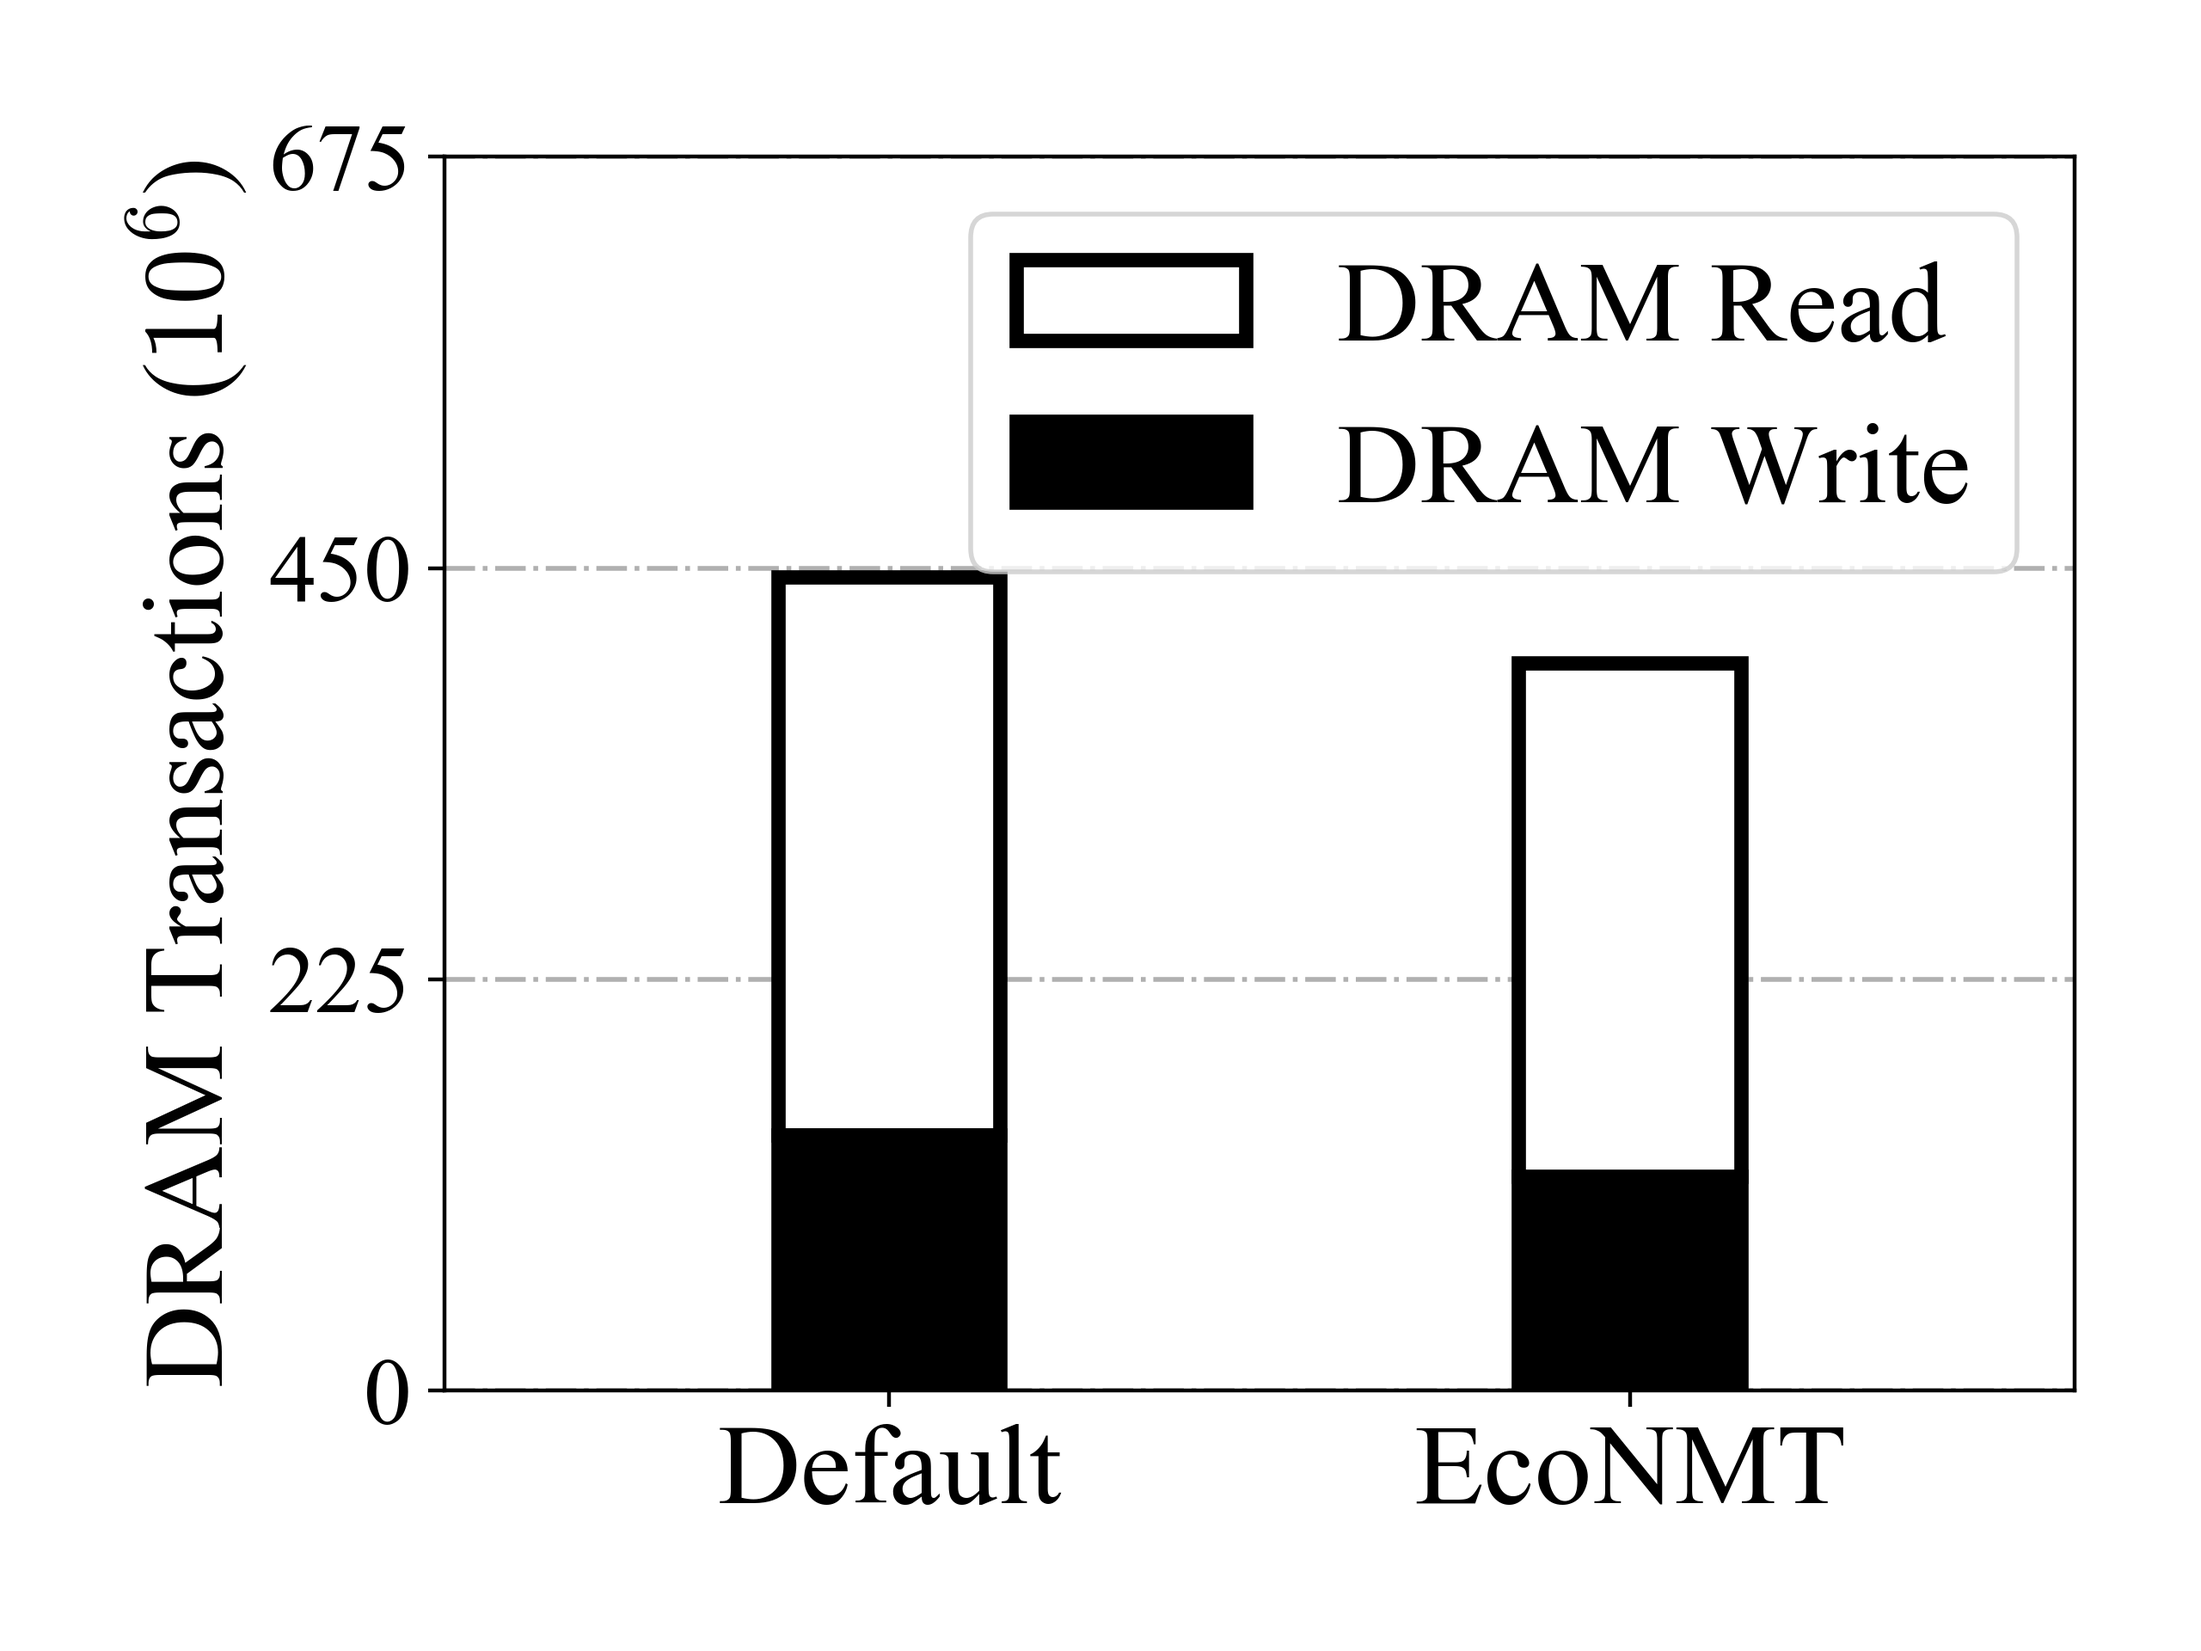
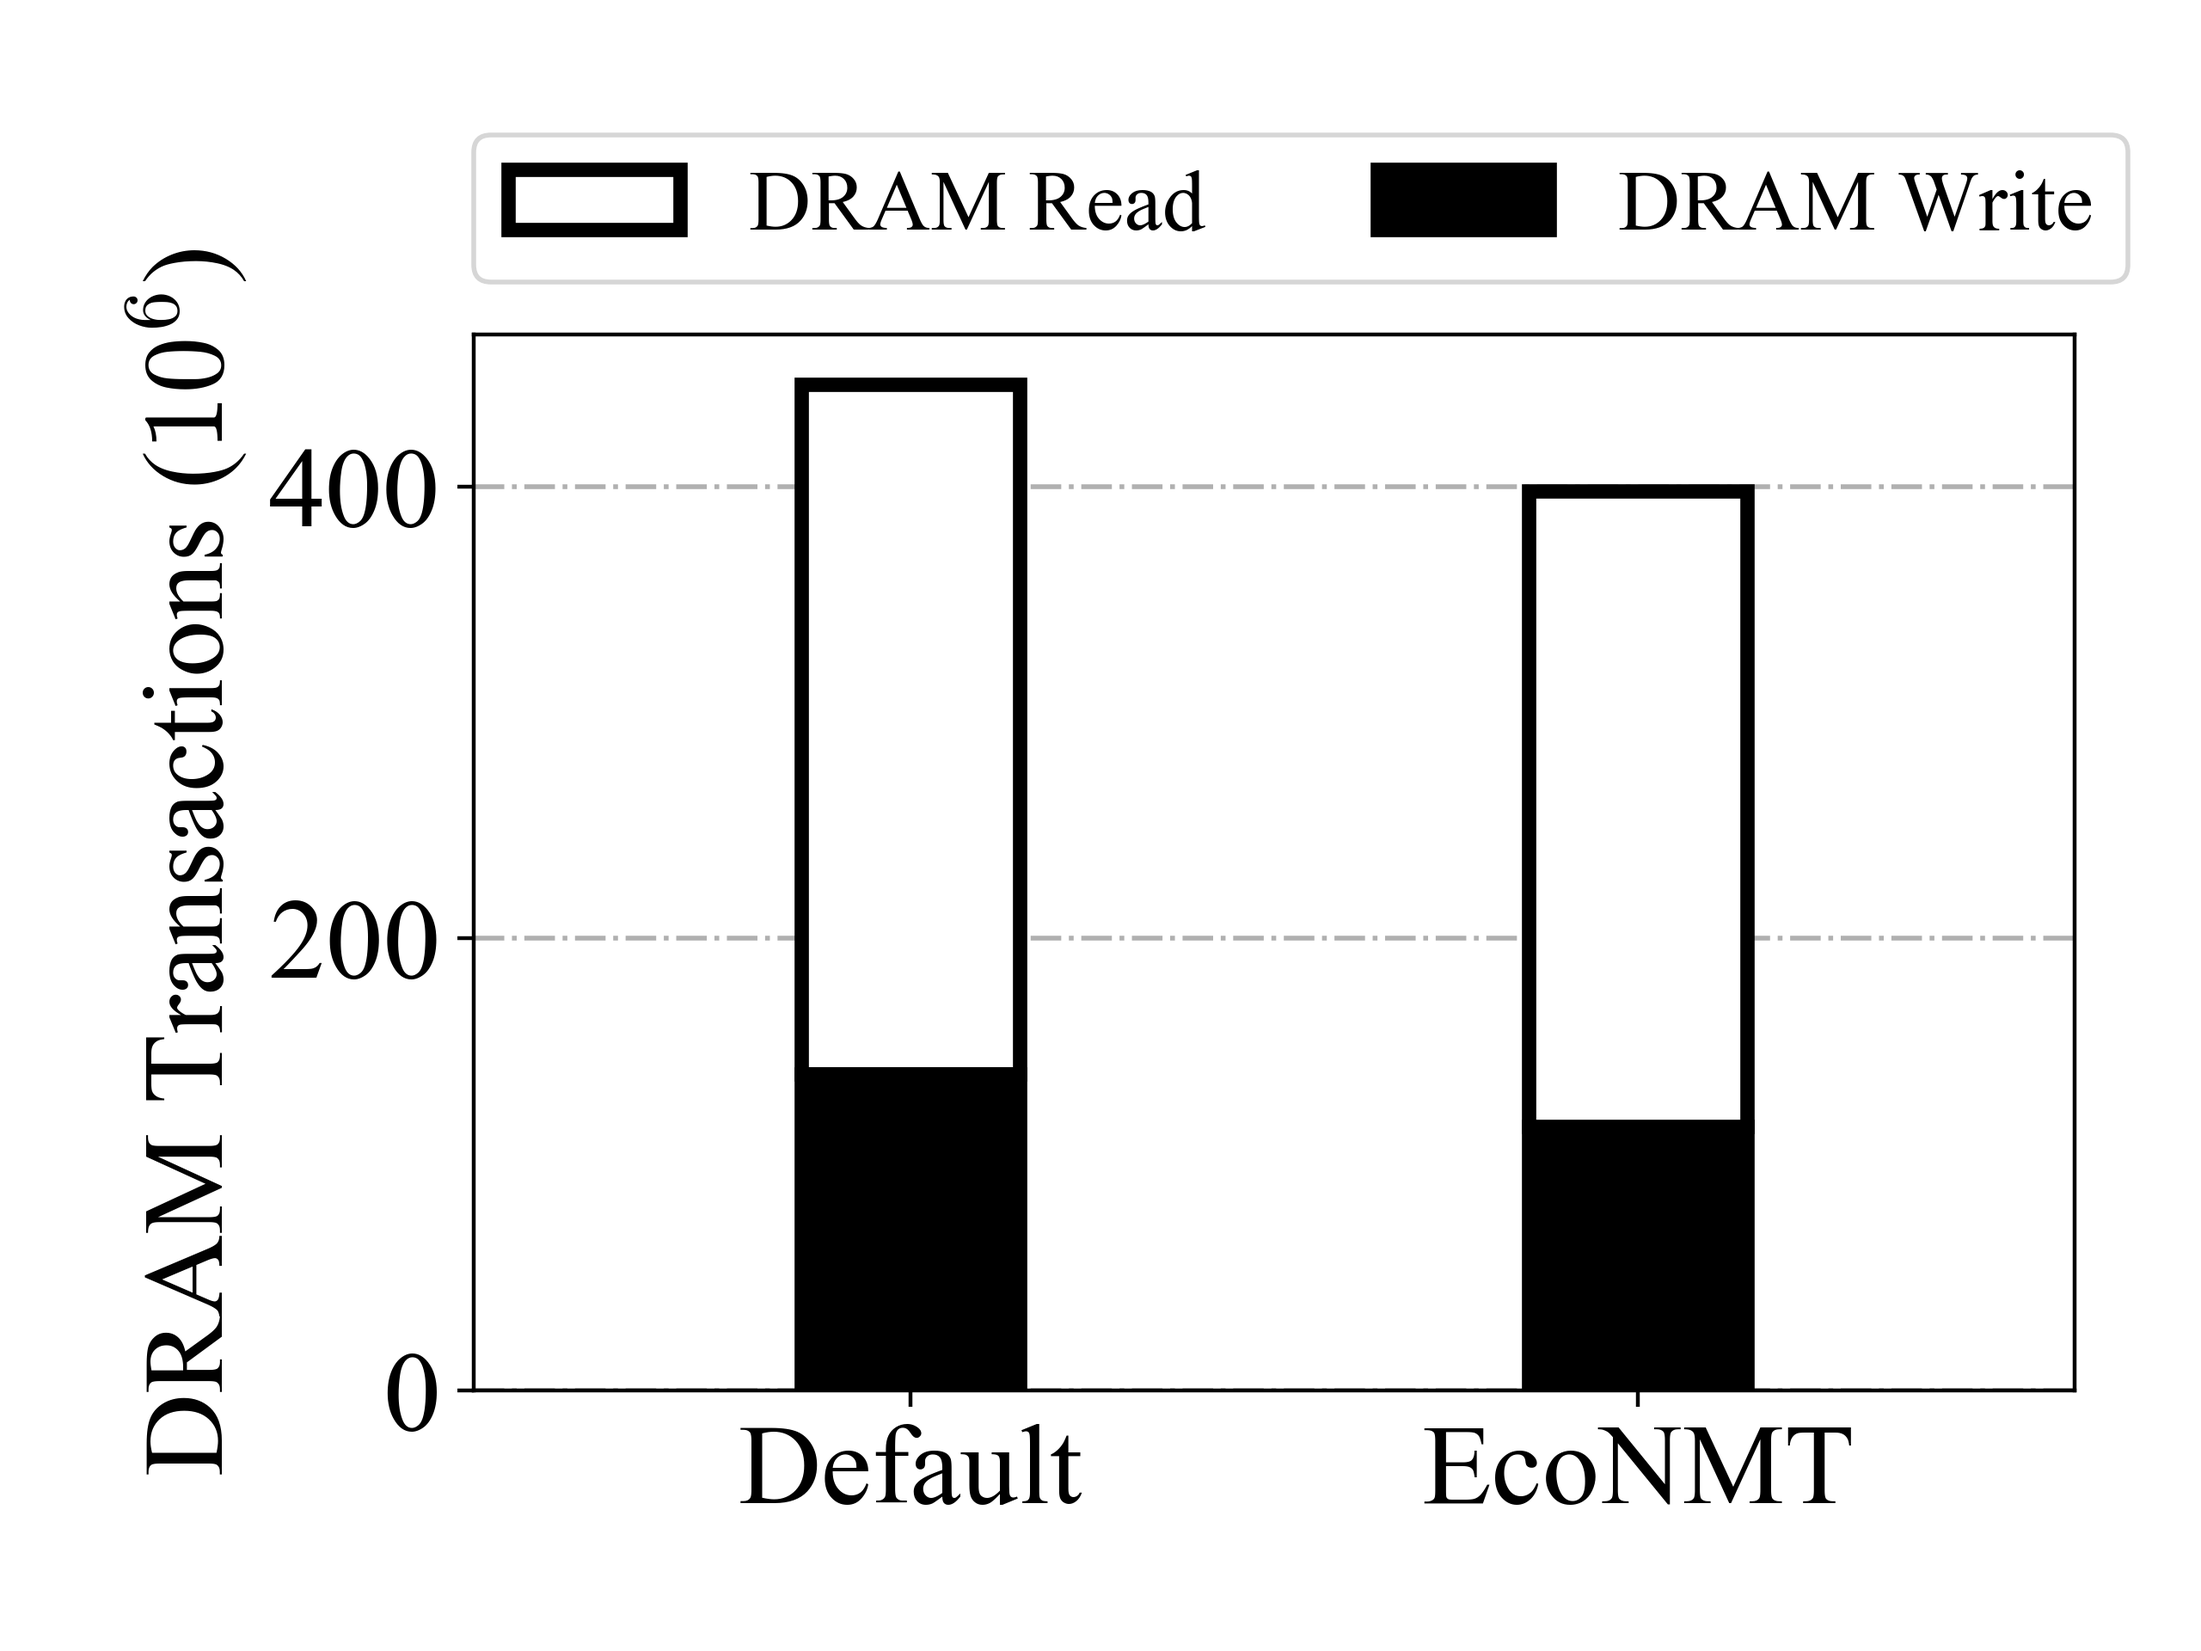
Renamed legacy to default, partial_fw_prop to econmt.

Changed region(s): [[0.0625, 0.0625, 0.9688, 0.9375], [0.625, 0.8438, 0.8438, 0.9062]]

diff --git a/workspace/results/tensorboard/visualizer.py b/workspace/results/tensorboard/visualizer.py
@@ -28,28 +28,28 @@ def gen_from_txt(fname):
     return data
 
 
-def plt_legacy_vs_partial_fw_prop(csv_prefix, metric, metric_unit=None, ymin=None, ymax=None,
+def plt_default_vs_econmt(csv_prefix, metric, metric_unit=None, ymin=None, ymax=None,
                                   xlabel='Global Step', 
                                   xlabel_unit='Number of Training Batches', title=None):
     """
     Plot the comparison between legacy backpropagation and partial forward propagation.
     """
     ylabel = metric.title().replace('_', ' ')
-    title ='%s-legacy_vs_partial_fw_prop-%s' % (csv_prefix, metric)
+    title ='%s-default_vs_econmt-%s' % (csv_prefix, metric)
 
-    legacy  = gen_from_txt(fname='%s-legacy/csv/%s.csv' % (csv_prefix, metric))
-    partial = gen_from_txt(fname='%s-partial_fw_prop/csv/%s.csv' % (csv_prefix, metric))
+    default = gen_from_txt(fname='%s-default/csv/%s.csv' % (csv_prefix, metric))
+    econmt  = gen_from_txt(fname= '%s-econmt/csv/%s.csv' % (csv_prefix, metric))
 
     if metric == 'memory_usage' and metric_unit == 'GB':
-        legacy [:,2] = legacy [:,2] / 1000
-        partial[:,2] = partial[:,2] / 1000
+        default[:,2] = default[:,2] / 1000
+        econmt [:,2] = econmt [:,2] / 1000
     
     plt.figure()
 
-    plt.plot(legacy [:,1], legacy [:,2], linewidth=2, linestyle='--', 
-             color='black', label='Legacy')
-    plt.plot(partial[:,1], partial[:,2], linewidth=2, linestyle='-',
-             color='black', label='Partial FW Prop')
+    plt.plot(default[:,1], default[:,2], linewidth=2, linestyle='--', 
+             color='black', label='Default')
+    plt.plot(econmt [:,1], econmt [:,2], linewidth=2, linestyle='-',
+             color='black', label='EcoNMT')
 
     plt.xlabel("%s (%s)" % (xlabel, xlabel_unit))
     plt.ylabel("%s (%s)" % (ylabel, metric_unit) if metric_unit is not None else ylabel)
@@ -72,9 +72,9 @@ if __name__ == "__main__":
     # setup the RC parameters
     plt_rc_setup()
 
-    plt_legacy_vs_partial_fw_prop(csv_prefix='iwslt15-vi_en-groundhog-500', metric='speed', metric_unit='Samples/s')
-    plt_legacy_vs_partial_fw_prop(csv_prefix='iwslt15-vi_en-tbd-500'      , metric='speed', metric_unit='Samples/s')
-    plt_legacy_vs_partial_fw_prop(csv_prefix='iwslt15-vi_en-groundhog-500', metric='perplexity')
-    plt_legacy_vs_partial_fw_prop(csv_prefix='iwslt15-vi_en-tbd-500'      , metric='perplexity')
-    plt_legacy_vs_partial_fw_prop(csv_prefix='iwslt15-vi_en-groundhog-500', metric='memory_usage', metric_unit='GB')
-    plt_legacy_vs_partial_fw_prop(csv_prefix='iwslt15-vi_en-tbd-500'      , metric='memory_usage', metric_unit='GB')
+    plt_default_vs_econmt(csv_prefix='iwslt15-vi_en-groundhog-500', metric='speed', metric_unit='Samples/s')
+    plt_default_vs_econmt(csv_prefix='iwslt15-vi_en-tbd-500'      , metric='speed', metric_unit='Samples/s')
+    plt_default_vs_econmt(csv_prefix='iwslt15-vi_en-groundhog-500', metric='perplexity')
+    plt_default_vs_econmt(csv_prefix='iwslt15-vi_en-tbd-500'      , metric='perplexity')
+    plt_default_vs_econmt(csv_prefix='iwslt15-vi_en-groundhog-500', metric='memory_usage', metric_unit='GB')
+    plt_default_vs_econmt(csv_prefix='iwslt15-vi_en-tbd-500'      , metric='memory_usage', metric_unit='GB')

diff --git a/workspace/results/profile/dram_traffic/visualizer.py b/workspace/results/profile/dram_traffic/visualizer.py
@@ -42,8 +42,8 @@ def parse_dram_traffic_profile(fname):
         
 
 if __name__ == "__main__":
-    dram_read_legacy , dram_write_legacy  = parse_dram_traffic_profile("iwslt15-vi_en-groundhog-legacy.csv")
-    dram_read_partial, dram_write_partial = parse_dram_traffic_profile("iwslt15-vi_en-groundhog-partial_fw_prop.csv")
+    dram_read_default, dram_write_default = parse_dram_traffic_profile("iwslt15-vi_en-groundhog-default.csv")
+    dram_read_econmt , dram_write_econmt  = parse_dram_traffic_profile("iwslt15-vi_en-groundhog-econmt.csv")
     
     plt_rc_setup()
 
@@ -51,16 +51,16 @@ if __name__ == "__main__":
 
     plt.figure()
 
-    plt.bar(x=0, height=dram_read_legacy, bottom=dram_write_legacy,
+    plt.bar(x=0, height=dram_read_default, bottom=dram_write_default,
             width=bar_width, edgecolor='black', linewidth=3, 
             color='white', label='DRAM Read')
-    plt.bar(x=0, height=dram_write_legacy, bottom=0,
+    plt.bar(x=0, height=dram_write_default, bottom=0,
             width=bar_width, edgecolor='black', linewidth=3, 
             color='black', label='DRAM Write')
-    plt.bar(x=1, height=dram_write_partial, bottom=0,
+    plt.bar(x=1, height=dram_write_econmt, bottom=0,
             width=bar_width, edgecolor='black', linewidth=3, 
             color='black')
-    plt.bar(x=1, height=dram_read_partial, bottom=dram_write_partial,
+    plt.bar(x=1, height=dram_read_econmt, bottom=dram_write_econmt,
             width=bar_width, edgecolor='black', linewidth=3, 
             color='white')
     
@@ -68,13 +68,13 @@ if __name__ == "__main__":
 
     plt.xlim  ([-2*bar_width, 1+2*bar_width])
     plt.xticks(range(len(xticklabels)), xticklabels)
-    plt.yticks(np.arange(0, 900, 225), fontsize=20)
+#     plt.yticks(np.arange(0, 900, 225), fontsize=20)
 
     plt.ylabel(r"DRAM Transactions ($10^6$)")
 
-    plt.legend()
+    plt.legend(loc=(0, 1.05), ncol=2, fontsize=18)
     plt.grid(linestyle='-.', linewidth=1, axis='y')
 
     plt.tight_layout()
-    plt.savefig("DRAM_Traffic_Comparison-Default_vs_EcoNMT.png")
+    plt.savefig("iwslt15-vi_en-groundhog-dram_traffic-default_vs_econmt.png")
 
